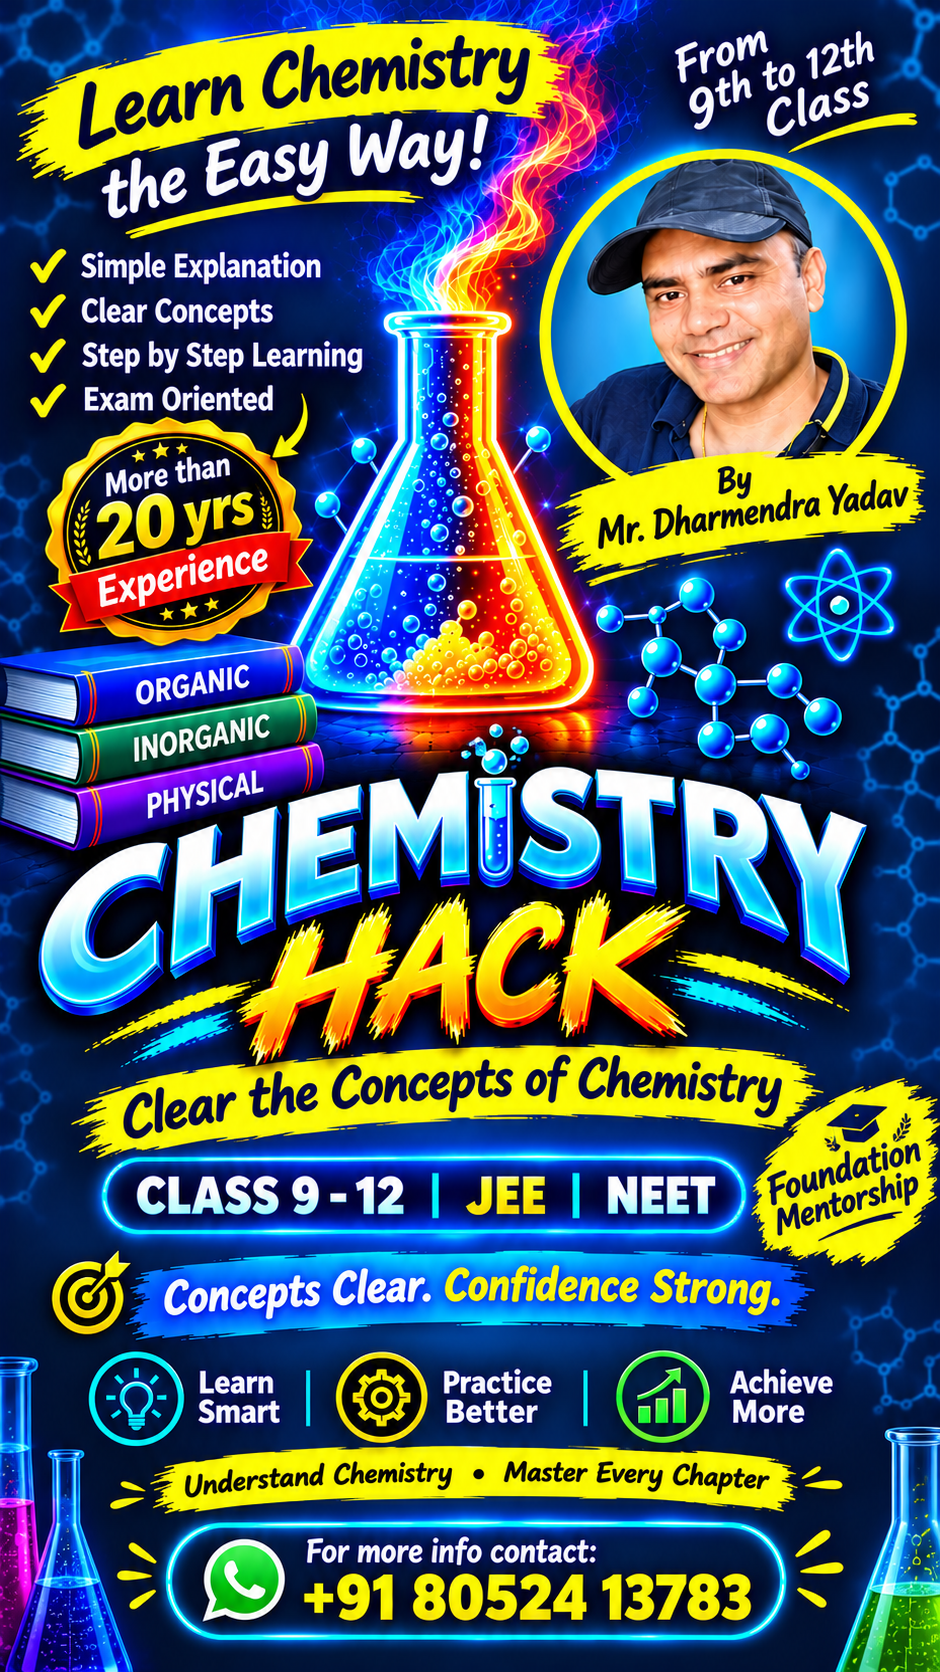
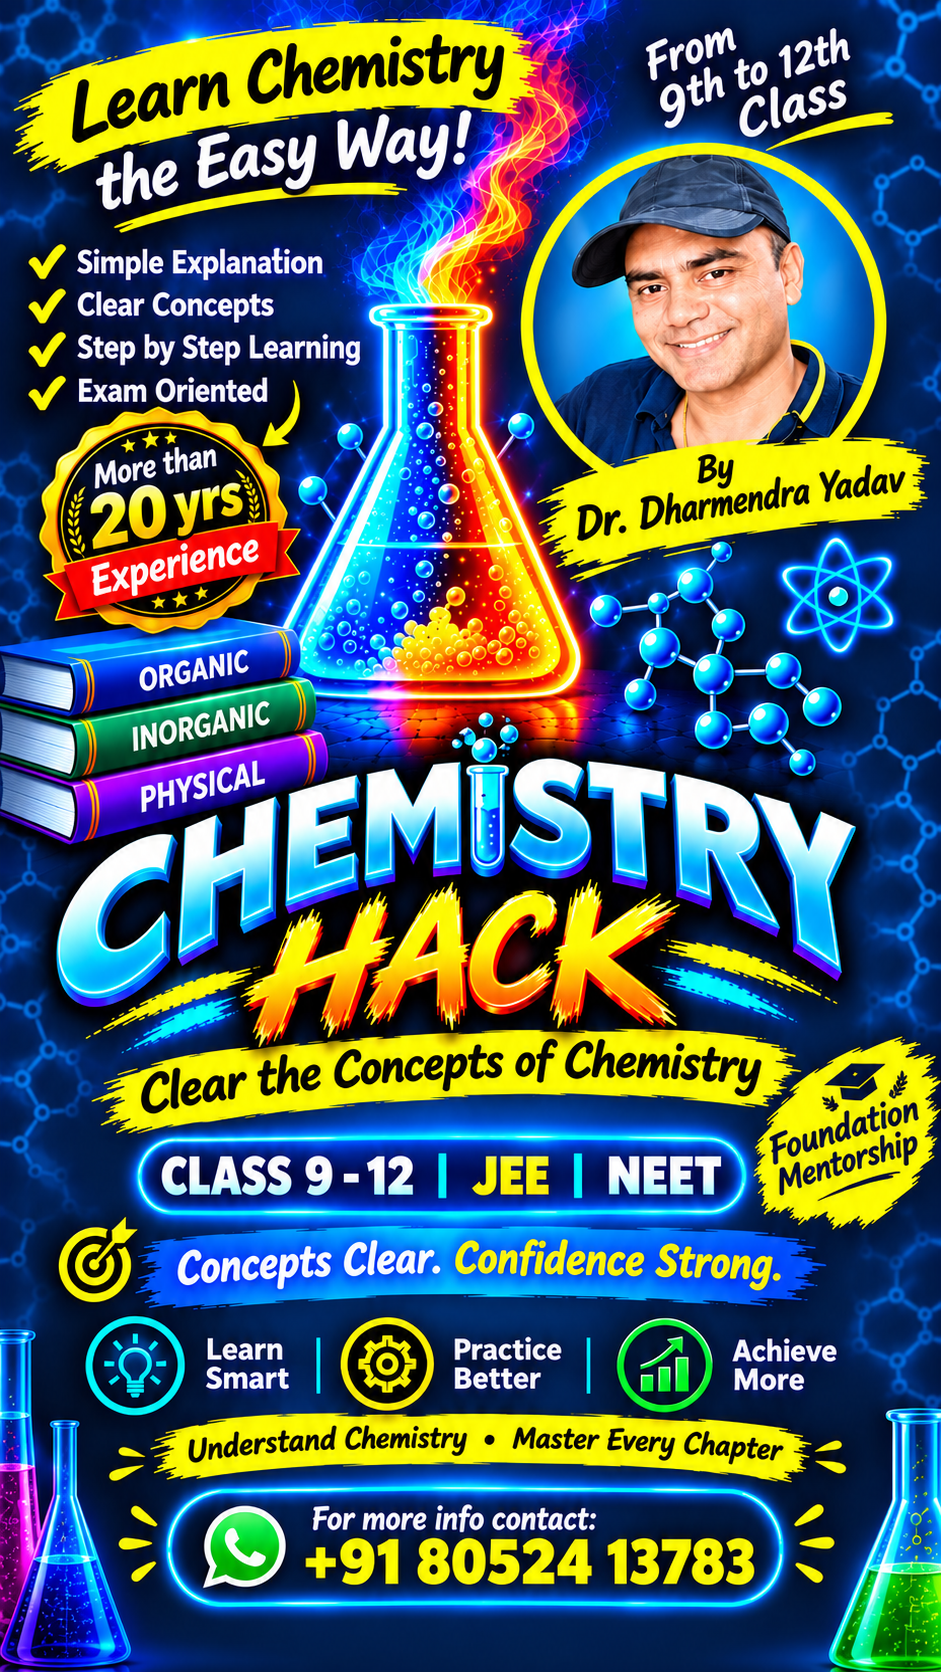
Add files via upload

diff --git a/index.html b/index.html
@@ -1,56 +1,25 @@
 <!doctype html>
 <html lang="en">
 <head>
-  <meta charset="utf-8">
-  <meta name="viewport" content="width=device-width, initial-scale=1">
-  <meta name="theme-color" content="#071638">
-  <meta name="description" content="Chemistry Hack by Mr. Dharmendra Yadav. Chemistry learning for Classes 9–12, JEE, NEET and Foundation Mentorship.">
-  <title>Chemistry Hack | Mr. Dharmendra Yadav</title>
-  <style>
-    :root { color-scheme: dark; --navy:#06132f; --blue:#087cff; --cyan:#28e5ff; --yellow:#ffe51a; --green:#25D366; }
-    * { box-sizing: border-box; }
-    body {
-      margin: 0; min-height: 100vh; padding: 24px 14px 36px;
-      font-family: system-ui, -apple-system, Segoe UI, Roboto, Arial, sans-serif;
-      color: #f7fbff; text-align: center;
-      background: radial-gradient(ellipse at top, #123e82 0, #071638 46%, #020817 100%);
-    }
-    .wrap { width: min(100%, 620px); margin: 0 auto; }
-    .eyebrow { color: var(--cyan); text-transform: uppercase; letter-spacing: .13em; font-weight: 800; font-size: .82rem; }
-    h1 { margin: 8px 0 6px; font-size: clamp(1.9rem, 7vw, 3rem); line-height: 1.05; font-weight: 950; }
-    h1 span { color: var(--yellow); }
-    .intro { color: #dce8ff; margin: 10px auto 20px; line-height: 1.55; max-width: 42rem; }
-    .poster { display:block; width:100%; height:auto; border-radius: 16px; border: 1px solid rgba(66,205,255,.55); box-shadow: 0 0 28px rgba(0,140,255,.28); }
-    .cta {
-      display:flex; align-items:center; justify-content:center; gap:10px;
-      width:100%; margin:20px 0 12px; padding:17px 20px; border-radius:999px;
-      background:var(--green); color:#042511; text-decoration:none; font-size:1.08rem;
-      font-weight:900; box-shadow:0 8px 26px rgba(37,211,102,.24);
-    }
-    .cta:focus-visible { outline:3px solid white; outline-offset:4px; }
-    .note { color:#c4d2ef; font-size:.88rem; line-height:1.5; margin: 10px auto; }
-    .details { margin-top:22px; padding:18px; border:1px solid rgba(74,191,255,.28); border-radius:16px; background:rgba(8,31,70,.65); }
-    .details strong { color:var(--yellow); }
-    footer { margin-top:22px; font-size:.78rem; color:#91a7ce; }
-  </style>
-</head>
-<body>
-  <main class="wrap">
-    <div class="eyebrow">Learn Chemistry the Easy Way</div>
-    <h1>CHEMISTRY <span>HACK</span></h1>
-    <p class="intro">Clear concepts, learn step by step, and prepare with confidence for Classes 9–12, JEE, NEET and Foundation Mentorship.</p>
-    <img class="poster" src="poster.png" alt="Chemistry Hack poster featuring Mr. Dharmendra Yadav and chemistry learning details">
-    <a class="cta" href="https://wa.me/918052413783?text=Hello%20Sir%2C%20I%20saw%20your%20Chemistry%20Hack%20poster.%20Please%20share%20details%20about%20Chemistry%20classes%20and%20Foundation%20Mentorship." target="_blank" rel="noopener noreferrer">
-      <span aria-hidden="true">☘</span> Enquire on WhatsApp
-    </a>
-    <p class="note">Tap the green button to open WhatsApp with a message already written. Review it and press <strong>Send</strong>.</p>
-    <section class="details">
-      <p><strong>By Mr. Dharmendra Yadav</strong></p>
-      <p>More than 20 years’ experience</p>
-      <p>Classes 9–12 · JEE · NEET · Foundation Mentorship</p>
-      <p>Contact: +91 80524 13783</p>
-    </section>
-    <footer>Chemistry Hack · Learn Smart · Practice Better · Achieve More</footer>
-  </main>
-</body>
-</html>
+<meta charset="utf-8"><meta name="viewport" content="width=device-width, initial-scale=1">
+<meta name="theme-color" content="#071638">
+<meta name="description" content="Chemistry Hack by Dr. Dharmendra Yadav — clear Chemistry concepts for Classes 9–12, JEE, NEET and Foundation Mentorship.">
+<title>Chemistry Hack | Dr. Dharmendra Yadav</title>
+<style>
+:root{--navy:#06132f;--cyan:#28e5ff;--yellow:#ffe51a;--green:#25D366}*{box-sizing:border-box}
+body{margin:0;min-height:100vh;padding:22px 14px 34px;font-family:system-ui,-apple-system,Segoe UI,Roboto,Arial,sans-serif;color:#f7fbff;text-align:center;background:radial-gradient(ellipse at top,#123e82 0,#071638 46%,#020817 100%)}
+.wrap{width:min(100%,620px);margin:0 auto}.eyebrow{color:var(--cyan);text-transform:uppercase;letter-spacing:.13em;font-weight:800;font-size:.82rem}
+h1{margin:8px 0 6px;font-size:clamp(1.9rem,7vw,3rem);line-height:1.05;font-weight:950}h1 span{color:var(--yellow)}
+.intro{color:#dce8ff;margin:10px auto 20px;line-height:1.55}.poster{display:block;width:100%;height:auto;border-radius:16px;border:1px solid rgba(66,205,255,.55);box-shadow:0 0 28px rgba(0,140,255,.28)}
+.cta{display:flex;align-items:center;justify-content:center;gap:10px;width:100%;margin:20px 0 12px;padding:17px 20px;border-radius:999px;background:var(--green);color:#042511;text-decoration:none;font-size:1.08rem;font-weight:900;box-shadow:0 8px 26px rgba(37,211,102,.24)}
+.cta:focus-visible{outline:3px solid white;outline-offset:4px}.note{color:#c4d2ef;font-size:.88rem;line-height:1.5;margin:10px auto}
+.details{margin-top:22px;padding:18px;border:1px solid rgba(74,191,255,.28);border-radius:16px;background:rgba(8,31,70,.65)}.details strong{color:var(--yellow)}
+footer{margin-top:22px;font-size:.78rem;color:#91a7ce}
+</style></head><body><main class="wrap">
+<div class="eyebrow">Learn Chemistry the Easy Way</div><h1>CHEMISTRY <span>HACK</span></h1>
+<p class="intro">Clear concepts, learn step by step, and prepare with confidence for Classes 9–12, JEE, NEET and Foundation Mentorship.</p>
+<img class="poster" src="poster.png" alt="Chemistry Hack educational poster">
+<a class="cta" href="https://wa.me/918052413783?text=Hello%20Sir%2C%20I%20saw%20your%20Chemistry%20Hack%20poster.%20Please%20share%20details%20about%20Chemistry%20classes%20and%20Foundation%20Mentorship." target="_blank" rel="noopener noreferrer"><span aria-hidden="true">💬</span> Enquire on WhatsApp</a>
+<p class="note">Tap the green button to open WhatsApp with an enquiry message already written. Review it and press Send.</p>
+<section class="details"><p><strong>Dr. Dharmendra Yadav</strong></p><p>More than 20 years’ experience</p><p>Classes 9–12 · JEE · NEET · Foundation Mentorship</p><p>Contact: +91 80524 13783</p></section>
+<footer>Learn Smart · Practice Better · Achieve More</footer></main></body></html>
